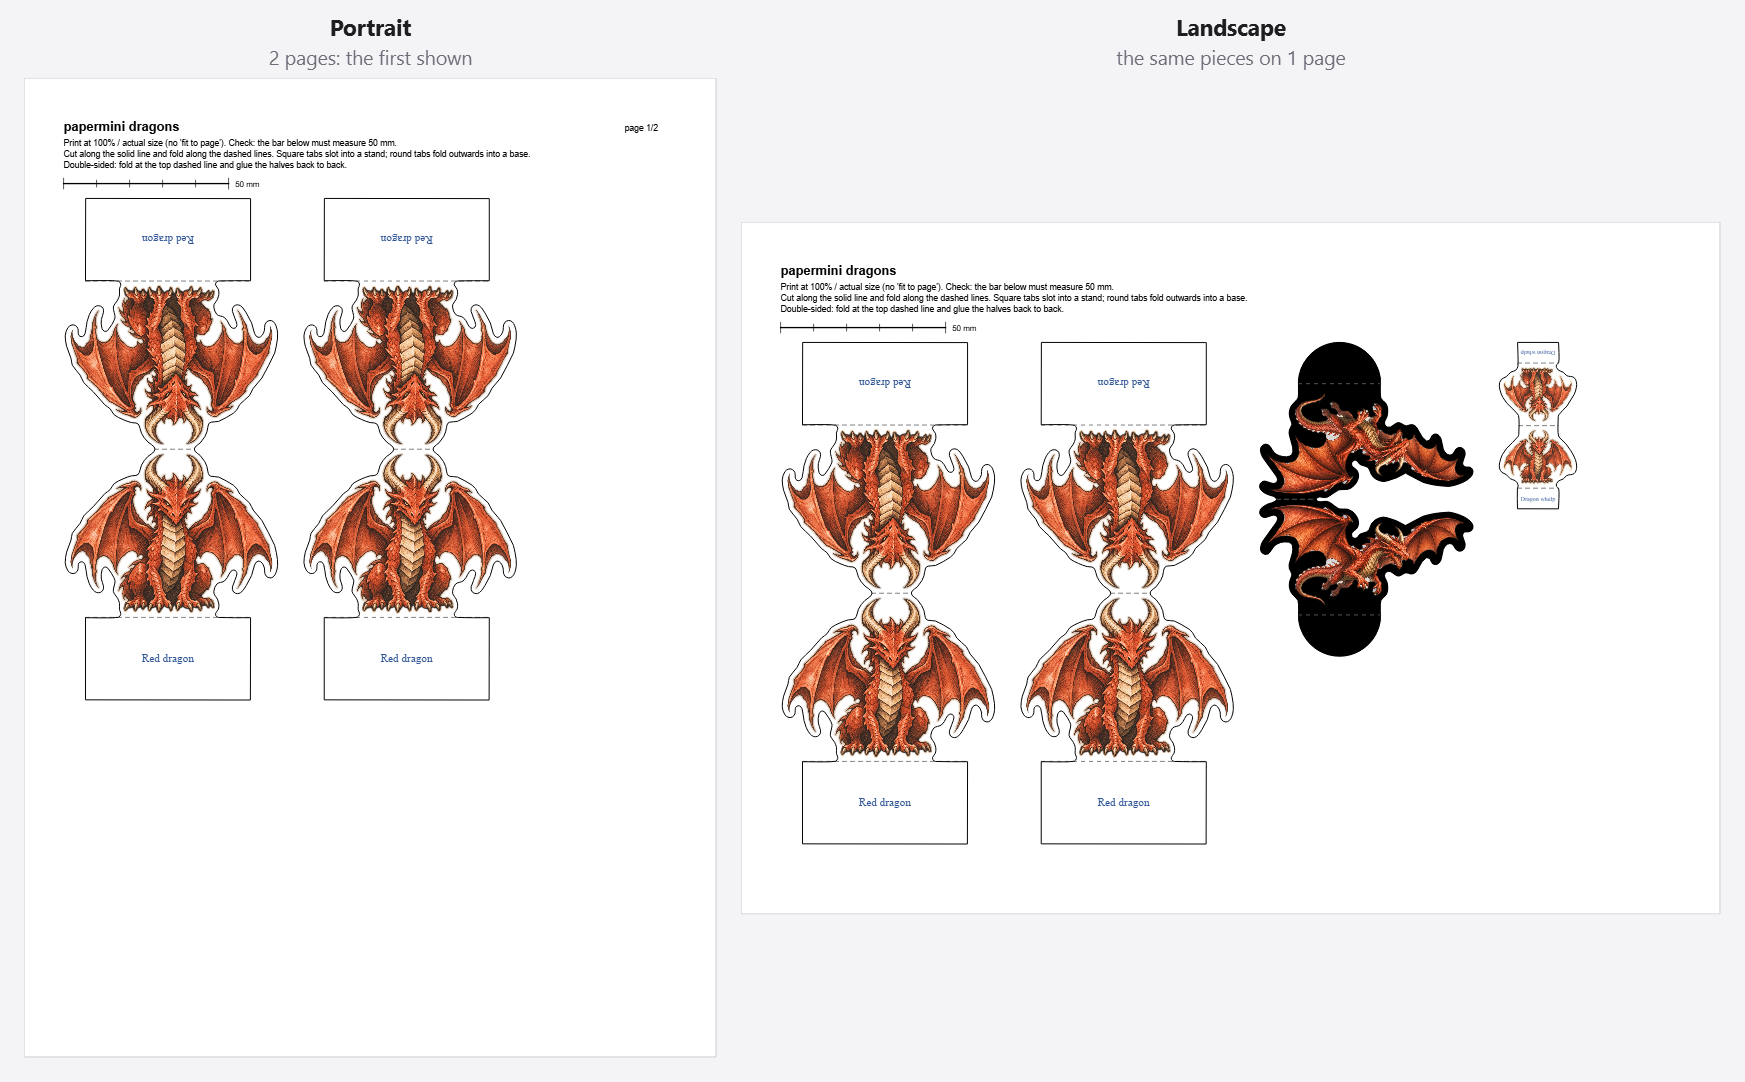
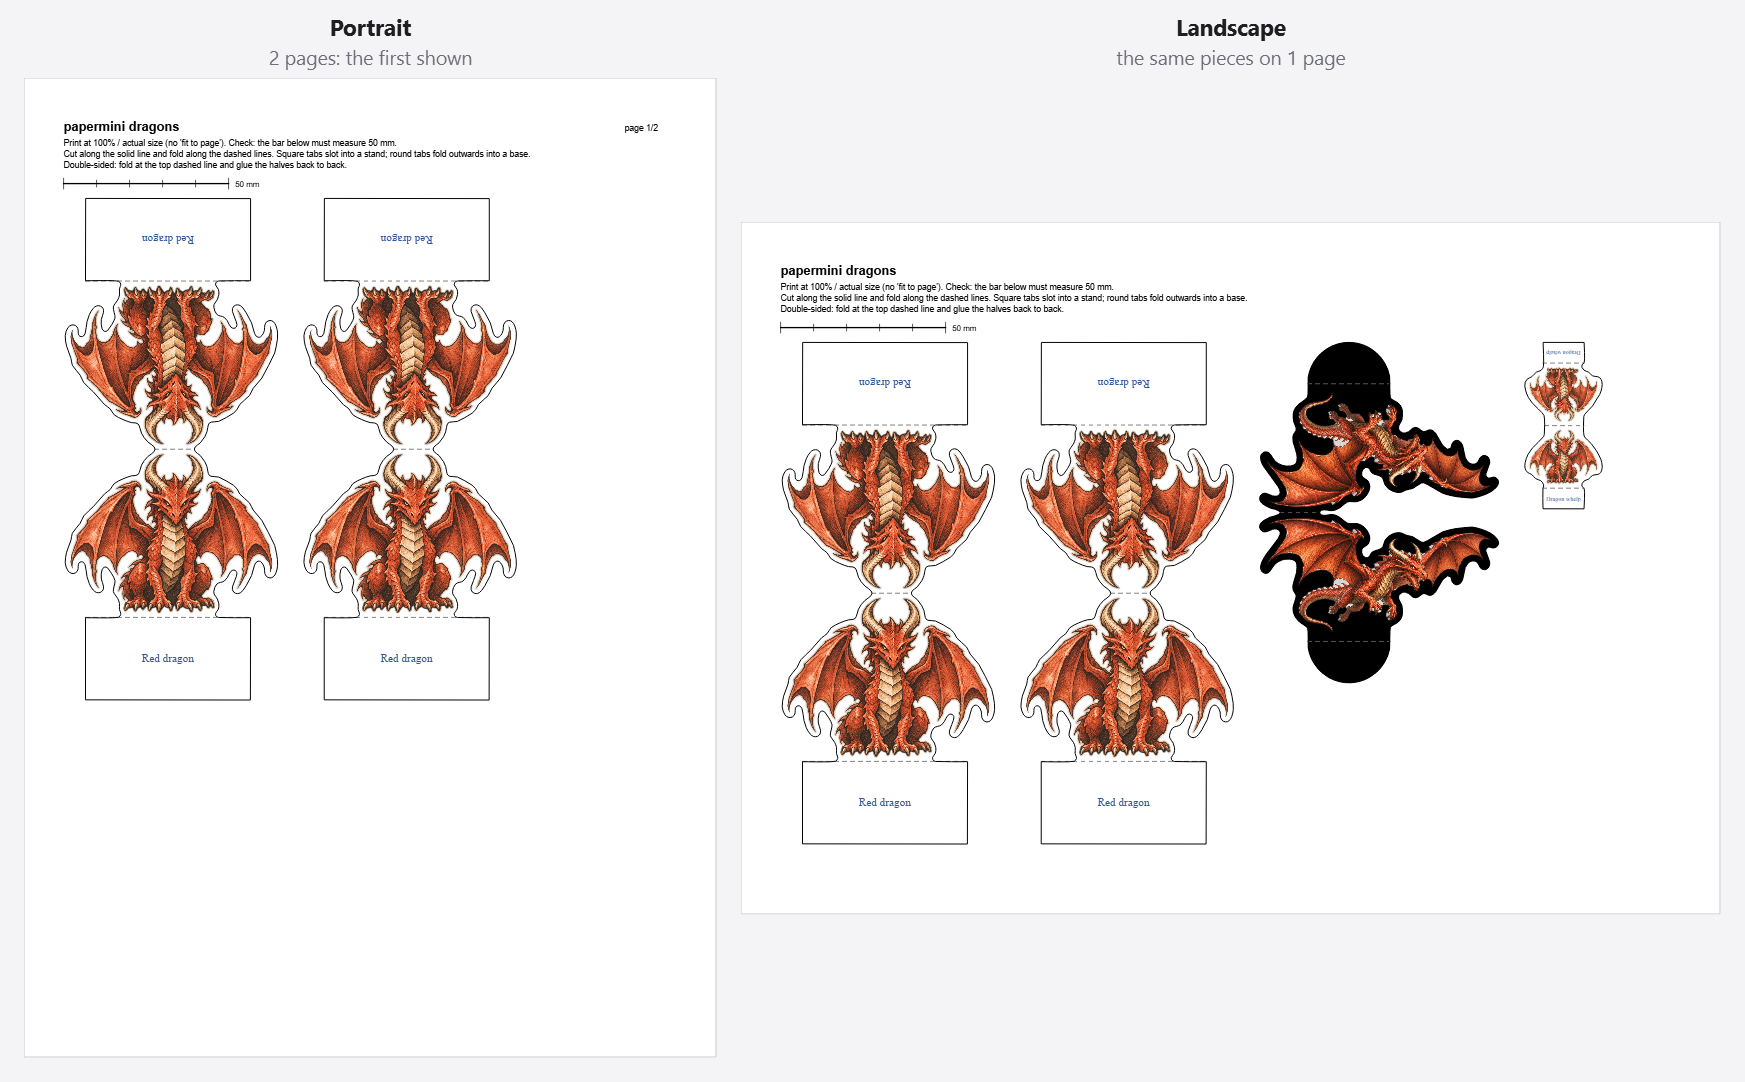
fix(examples): build the README's flying dragon as in its photo
The photo under the README's first screenshot shows the flying dragon
printed 36 mm tall on a 25 mm round base. When creature sizes came in,
the example project made it Large (48 mm tall on a 50 mm base), so the
screenshot no longer matched the photo. It is custom again, with the
photo's height and base, and a test keeps it that way. The app
screenshots and the cut-by-machine and orientation pictures follow.

Changed region(s): [[0.7117, 0.305, 0.9284, 0.6405]]

diff --git a/tests/test_settings.py b/tests/test_settings.py
@@ -179,3 +179,16 @@ def test_size_by_height_width_or_both(tmp_path):
                          FigureEntry(tmp_path / "b.png", by_width)])
     loaded = load_project(save_project(p, tmp_path / "p.yaml"))
     assert [f.settings for f in loaded.figures] == [stretched, by_width]
+
+
+def test_the_readme_dragon_matches_its_photo():
+    """Regression: the flying dragon of the README screenshots became Large (48 mm tall on
+    a 50 mm base) while the photo under them shows it printed 36 mm tall on a 25 mm round
+    base. The project must build the mini in the photo."""
+    root = Path(__file__).resolve().parent.parent / "examples" / "dragons"
+    assert (root / "dragon-flying-photo.jpg").is_file()
+    fly = {f.image.name: f for f in load_project(root / "dragons.yaml").figures}[
+        "dragon-flying.webp"]
+    s = fly.settings
+    assert (s.height_mm, s.tab_shape, s.tab_radius_mm) == (36, "round", 12.5)
+    assert (s.margin_color, s.tab_color, s.tab_overlap_mm) == ("#000000", "#000000", 4)
